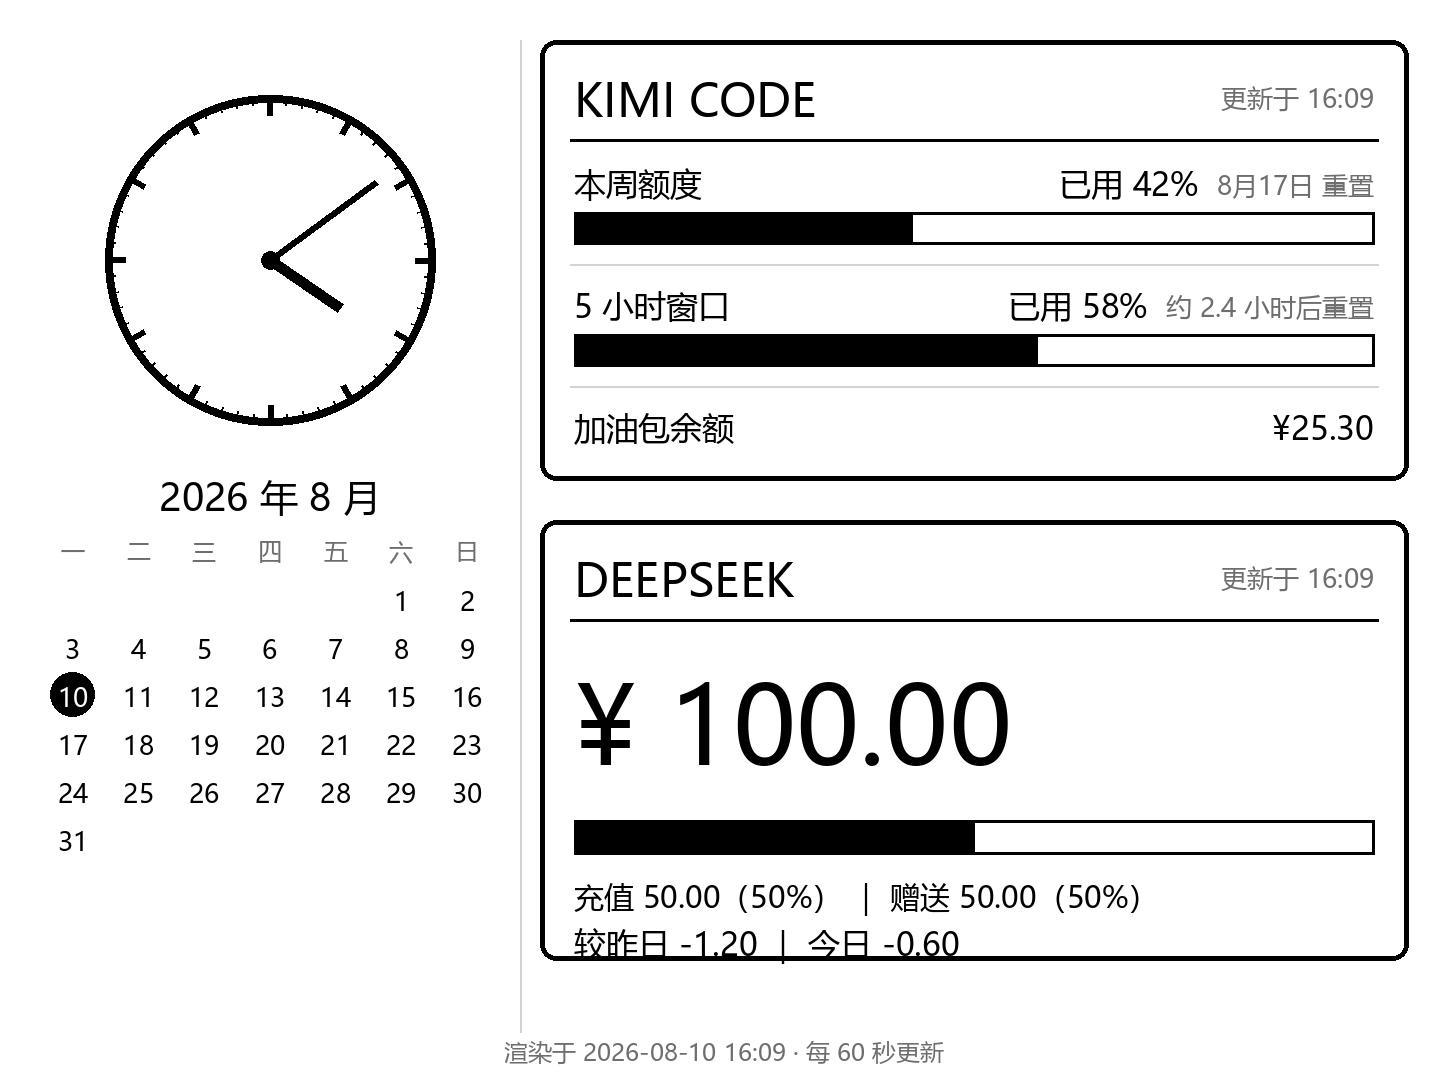
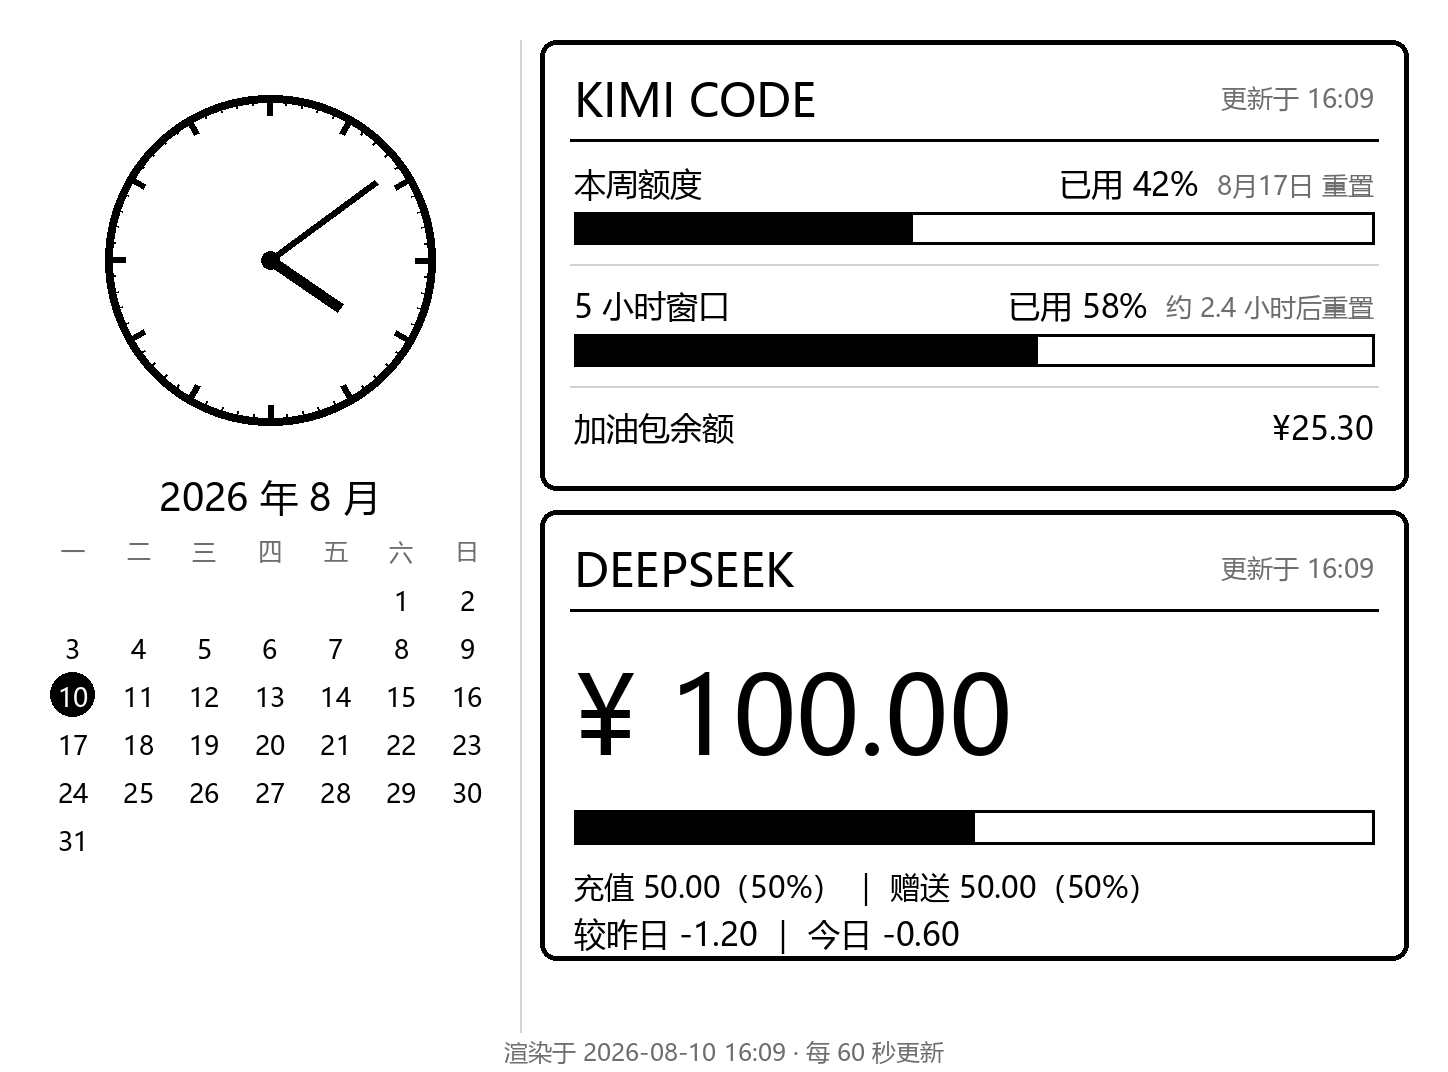
update wiki symbol and landscape dash

Changed region(s): [[0.3729, 0.6157, 0.9634, 0.8927], [0.3729, 0.431, 0.9945, 0.5849], [0.404, 0.6157, 0.4351, 0.708]]

diff --git a/tools/make_icons.py b/tools/make_icons.py
@@ -103,10 +103,14 @@ def make_sheet():
 
 def main():
     OUT_DIR.mkdir(parents=True, exist_ok=True)
-    make_icon(STYLE, True).save(OUT_DIR / "wifi-on.png", optimize=True)
-    make_icon(STYLE, False).save(OUT_DIR / "wifi-off.png", optimize=True)
+    for state in ("on", "off"):
+        icon = make_icon(STYLE, state == "on")
+        icon.save(OUT_DIR / f"wifi-{state}.png", optimize=True)
+        # 横屏变体：图标内容随仪表盘同向旋转，横放时才是正的
+        icon.rotate(90, expand=True).save(OUT_DIR / f"wifi-{state}-cw.png", optimize=True)
+        icon.rotate(-90, expand=True).save(OUT_DIR / f"wifi-{state}-ccw.png", optimize=True)
     make_sheet()
-    print(f"已生成 {OUT_DIR}/wifi-on.png, wifi-off.png（样式 {STYLE}）")
+    print(f"已生成 {OUT_DIR}/wifi-{{on,off}}{{,-cw,-ccw}}.png（样式 {STYLE}）")
     print(f"候选对比图 {SHEET}")
 
 

diff --git a/server/render.py b/server/render.py
@@ -552,11 +552,11 @@ def build_landscape_image(cfg, result, hist, now):
     draw_calendar(d, fonts, 40, 500, 470, now)
     d.line([520, 40, 520, 1032], fill=LIGHT, width=2)
 
-    # 右栏：两块面板
+    # 右栏：两块面板（高 450，与竖屏一致，防止底部文字溢出框外）
     today = now.strftime("%Y-%m-%d")
-    draw_plan_panel(d, fonts, (540, 40, 1408, 480), "KIMI CODE", result["kimi"], now)
+    draw_plan_panel(d, fonts, (540, 40, 1408, 490), "KIMI CODE", result["kimi"], now)
     ds, _total, d_yesterday, d_today = _deepseek_args(result, hist, today)
-    draw_panel(d, fonts, (540, 520, 1408, 960), "DEEPSEEK", ds, d_yesterday, d_today)
+    draw_panel(d, fonts, (540, 510, 1408, 960), "DEEPSEEK", ds, d_yesterday, d_today)
 
     interval = cfg.get("FETCH_INTERVAL", "60")
     footer = f"渲染于 {now:%Y-%m-%d %H:%M} · 每 {interval} 秒更新"

diff --git a/docs/3-kindle-setup.md b/docs/3-kindle-setup.md
@@ -57,8 +57,9 @@
 ├── warning.png
 ├── config.env
 └── icons/
-    ├── wifi-on.png
-    └── wifi-off.png
+    ├── wifi-on.png / wifi-off.png
+    ├── wifi-on-cw.png / wifi-off-cw.png
+    └── wifi-on-ccw.png / wifi-off-ccw.png
 /mnt/us/extensions/ai-dashboard/
 ├── config.xml
 ├── menu.json
@@ -72,7 +73,7 @@
 
 （`/mnt/us/dashboard/cache/` 和 `orientation` 标记文件不用手工建，脚本第一次运行/启动时会自己创建。）
 
-验证：对着上面的布局逐层点开检查，12 个文件一个不少、层级完全一致。
+验证：对着上面的布局逐层点开检查，16 个文件一个不少、层级完全一致。
 
 ### 第 3 步：在电脑上编辑 config.env
 
@@ -140,6 +141,7 @@ IMAGE_URL=http://YOUR_DOMAIN/kindle-dash-YOUR_TOKEN/dash.png
 | 点了"开启"项没反应，屏幕不变 | 脚本丢了执行权限（ZIP 解压再拷贝容易出现） | 用 USBNetwork 的 SSH 连上 Kindle（装法见 [1-jailbreak.md](1-jailbreak.md)），执行 `chmod +x /mnt/us/dashboard/dashboard.sh /mnt/us/extensions/ai-dashboard/bin/*.sh`，再回 KUAL 启动。若 chmod 不生效（`/mnt/us` 是 FAT 文件系统，权限位可能存不住），在 SSH 里手动执行 `sh /mnt/us/dashboard/dashboard.sh`，看实际报错再对症处理 |
 | 屏幕有画面，但顶部告警横幅一直不消失 | 持续拉取失败 | **先看左上角 WiFi 图标**：带斜杠 = WiFi 断了，重连 WiFi 即可；实心 = WiFi 正常，问题在服务器/远端——① 电脑浏览器访问 `IMAGE_URL`，打不开就逐字符核对 `config.env` 里的域名、token 与服务器 nginx 配置（含结尾的 `dash.png`）；② 服务器上 `pm2 logs` 看渲染程序是否还活着 |
 | 横屏后画面是倒的 | 顺/逆时针方向选反了 | 不用改任何文件：KUAL 里点另一个方向的"开启横屏仪表盘"即可（启动即切换） |
+| 屏幕顶部偶尔闪现系统状态栏（时间/信号/电池） | 系统框架每分钟整会重绘一次状态栏 | 脚本已对齐在每分钟第 2 秒刷屏，状态栏最多闪现 2 秒就被盖掉，属正常现象。想彻底消除只能停掉系统界面（`stop lab126_gui`），但 KUAL 也会消失、停止仪表盘只能重启设备，不建议为此折腾 |
 | 横幅偶尔出现又自己消失 | 网络偶发超时（脚本里 `wget` 超时设为 20 秒） | 偶发可以不管。频繁出现则查：服务器安全组/防火墙是否放行 80 端口、家里路由器是否开了 AP 隔离、宽带运营商到服务器的链路是否稳定 |
 | 画面有残影，字迹越看越灰 | 局部刷新累积的正常现象 | 把 `config.env` 里的 `FULL_REFRESH_EVERY` 调小（默认 60，可改成 30），即每 30 次刷新做一次全刷清残影。改完要在 KUAL 里停止再启动才生效 |
 | 屏幕上残留系统状态栏或菜单的影子 | 系统 UI 曾在仪表盘运行时弹出过 | 点一下屏幕或等下一次刷新一般会盖掉。进阶做法：SSH 里 `stop lab126_gui` 彻底停掉系统界面——但系统 UI 会完全消失，想恢复要 `start lab126_gui` 或重启，新手不建议碰 |

diff --git a/AGENTS.md b/AGENTS.md
@@ -35,7 +35,7 @@
 - **失败兜底分两层**：
   - 服务器取数失败：渲染时沿用最近一次成功数据，面板右上角加 ⚠ 缓存角标（数据保持深色不标灰），不黑屏。
   - **Kindle 拉取失败（wget 失败/超时）**：显示本地缓存的上一张图，并用 fbink 在屏幕顶部叠加一行警告文字，下次成功拉取后警告自动消失。两级兜底互不相同：图内角标表示"服务器数据旧"，屏上叠字表示"Kindle 连不上服务器"。
-- **WiFi 状态图标（Kindle 端叠加，与横幅同机制）**：屏幕左上角（x44, y14）常显 40×40 扇形图标——`ifconfig wlan0` 有 inet addr → 实心（wifi-on.png）；无 → 斜杠（wifi-off.png）。与 wget 成败组合：斜杠+横幅=断网；实心+横幅=服务器/远端问题。图标永远最后绘制，不被横幅遮盖。
+- **WiFi 状态图标（Kindle 端叠加，与横幅同机制）**：画面角落常显 40×40 扇形图标——`ifconfig wlan0` 有 inet addr → 实心；无 → 斜杠。与 wget 成败组合：斜杠+横幅=断网；实心+横幅=服务器/远端问题。图标永远最后绘制，不被横幅遮盖。位置随方向：竖屏=左上（x44,y14）；横屏两种方向都在画面右上角（landscape-cw 用帧缓冲 x44,y14、landscape-ccw 用 x988,y1394），图标文件按方向预旋转（`wifi-*-cw/ccw.png`）。
 
 ## 4. 服务器端
 
